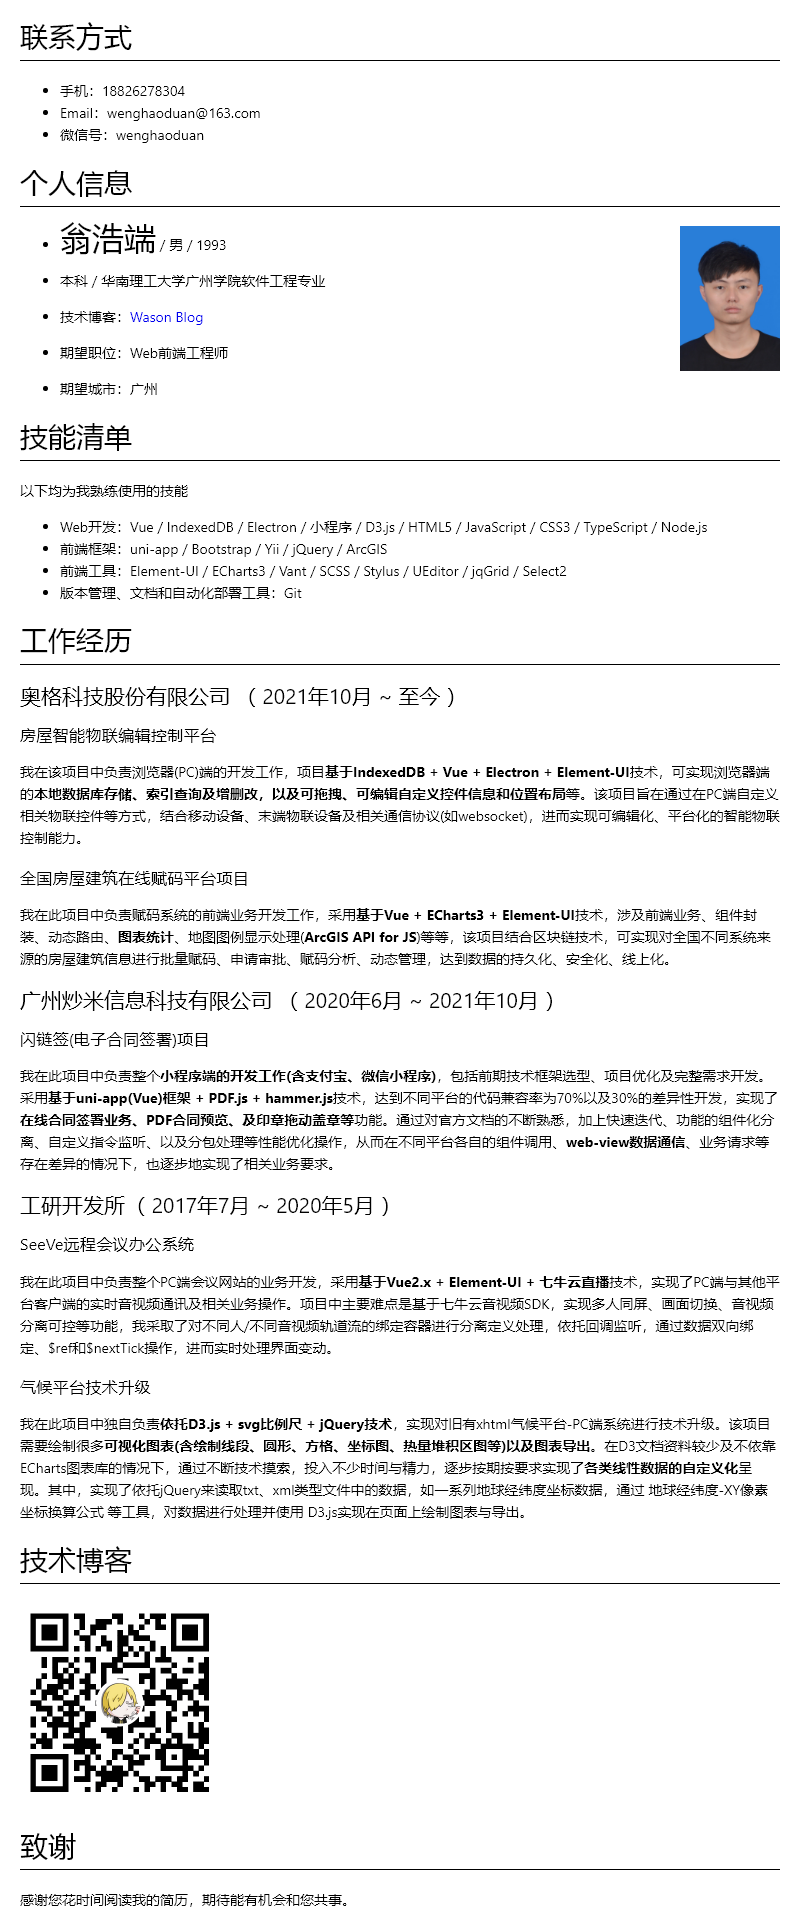
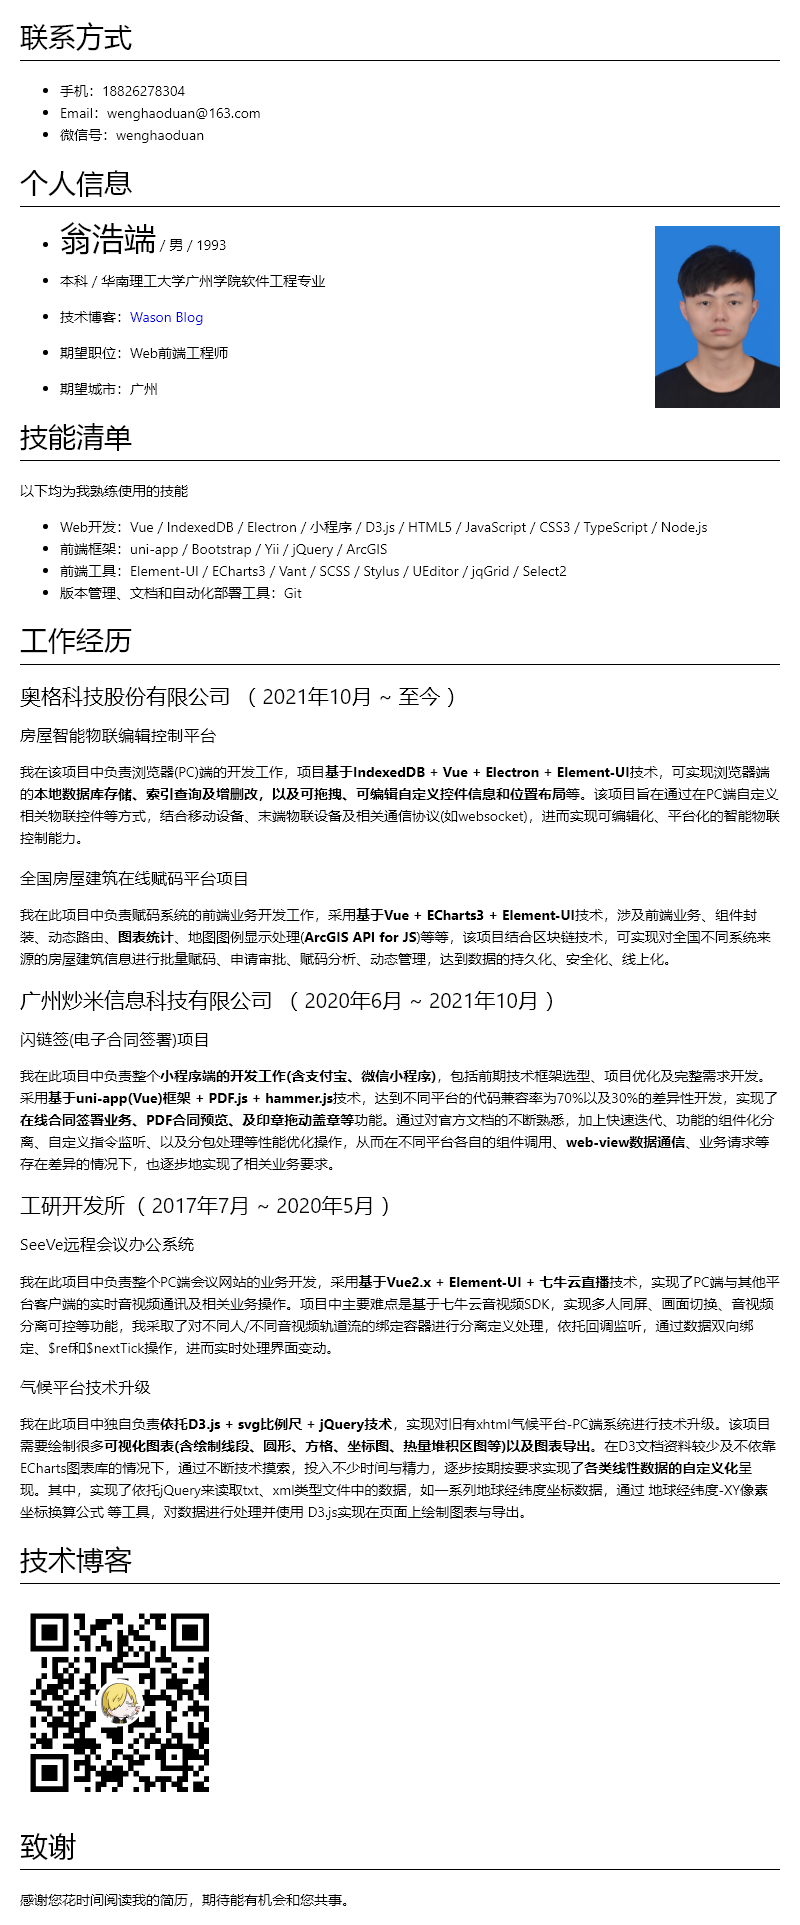
feat:调整简历照片大小

Changed region(s): [[0.8125, 0.0935, 1.0, 0.2182]]

diff --git a/web_resume.md b/web_resume.md
@@ -5,7 +5,7 @@
 
 
 # 个人信息
-<img src="https://wason419.github.io/img/mi.jpg" width = "100" alt="照片" align="right"/>
+<img src="https://wason419.github.io/img/mi.jpg" width = "125" alt="照片" align="right"/>
 
 - <font size=6>翁浩端</font> / 男 / 1993  
 - 本科 / 华南理工大学广州学院软件工程专业  
@@ -47,8 +47,8 @@
 我在此项目中独自负责**依托D3.js + svg比例尺 + jQuery技术**，实现对旧有xhtml气候平台-PC端系统进行技术升级。该项目需要绘制很多**可视化图表(含绘制线段、圆形、方格、坐标图、热量堆积区图等)以及图表导出**。在D3文档资料较少及不依靠ECharts图表库的情况下，通过不断技术摸索，投入不少时间与精力，逐步按期按要求实现了**各类线性数据的自定义化**呈现。其中，实现了依托jQuery来读取txt、xml类型文件中的数据，如一系列地球经纬度坐标数据，通过 地球经纬度-XY像素坐标换算公式 等工具，对数据进行处理并使用 D3.js实现在页面上绘制图表与导出。
 
 
-<!-- # 技术博客
-<img src="https://wason419.github.io/img/web-re.png" width = "200" alt="blog二维码"/> -->
+# 技术博客
+<img src="https://wason419.github.io/img/web-re.png" width = "200" alt="blog二维码"/>
 
 
 # 致谢
